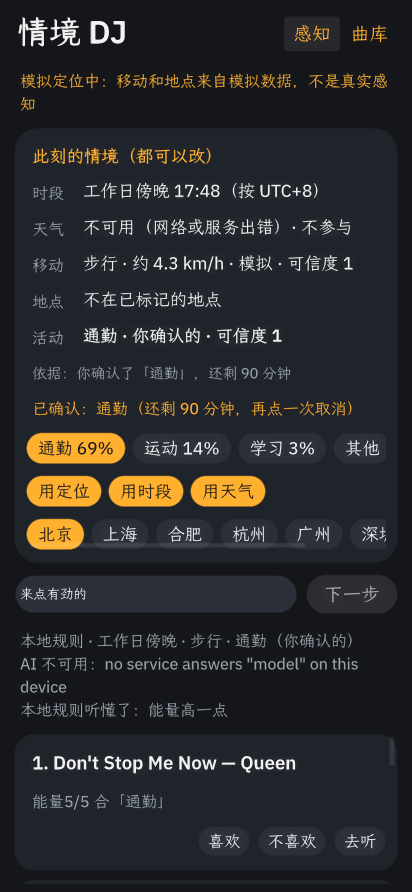
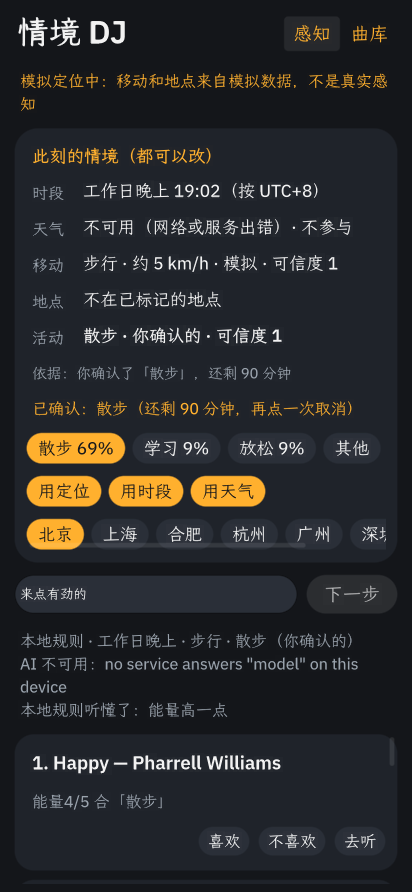
按 G1–G4 报告修复：启动分批加载（500 条记录超指令上限）、情境卡与歌单活动一致、弱推断不当事实、历史记录 AI 原始判断
Claude-Session: https://claude.ai/code/session_019x9uWJM5wMK4P8noCX7i6x

diff --git a/docs/PLAN.md b/docs/PLAN.md
@@ -464,3 +464,17 @@ AI 定期：总结"你的规律"、建议新模板
   - 自动采用的推断**不记为标签**，否则模型会自己强化自己；只有用户的点选、手动选择和原话才记。
   - 一键确认显示为"你确认的"，不显示"手动"。
 - **还没做（10-06）**：视觉和布局重做（和 Fano 一起定风格）、模板（C7）、AI 规律总结（C7）。
+
+## 12. G1–G4 报告处理（2026-10-05 晚）
+
+| 报告 | 结论 | 处理 |
+|---|---|---|
+| G1 | **真实 MiniMax 路径打通**：v0.2 的 A–E 全部通过，亲眼看到 AI 歌单和 understood | — |
+| G1 | 首次启动报 `script time budget exceeded`（当时内存提交率 96%） | 复现出根因：500 条确认记录时，启动加载超过指令上限。**已改为分批启动加载**，500 条压力测试通过 |
+| G1 | 情境卡和歌单的活动不一致 | **已修**：原话或 AI 判断出的情境在同一情境桶内沿用 30 分钟，情境卡同步刷新 |
+| G1 | 只凭时段的弱推断，被 AI 写成了确定事实 | **已修**：提示词里告诉 AI 可信度低于 0.5 的只是猜测；发给 AI 的规则推断带上可信度 |
+| G1 | AI 原始的 activity 字段没有留存，无法单独核对 | **已修**：历史记录新增 `ai_raw` |
+| G1 | C 盘空闲减少约 18 GiB，最可能是系统分页文件扩大（内存压力） | 不是应用写入。C 盘目前仍剩约 168 GiB；之后测试注意内存占用 |
+| G2 | Home 和 Bridge 已装到 P40；系统定位回调可用，独立卫星定位未验证；**手机读不到官方 App Hub 目录（Connection reset，访问 raw.githubusercontent.com 被重置）**；本地导入没有入口 | 手机端演示要先解决网络问题；决赛演示以桌面为主 |
+| G3 | MusicBrainz 可达；**Open-Meteo 本轮超时**（G1 时曾成功，说明不稳定） | 天气按可选信号处理（已有降级）；C8 要处理候选歧义：跳过 video 和 live，缺失字段保留为缺失，年份取最早的发行日期 |
+| G4 | issue 草稿完成 | 由 Fano 审阅后提交 |

diff --git a/AGENTS.md b/AGENTS.md
@@ -41,3 +41,5 @@ Add this app's own requirements, data sources and tests below.
 - `ok` 是保留字，不能用作对象的键（`{ok: true}` 会解析失败），本应用改用 `valid`。
 - `card-host` 中没有 GPS：用"感知"页的模拟定位测试，界面会一直显示模拟提示，历史里也记 `sim: true`。
 - 每个处理函数最多执行 20 万条指令（已实测会触发）。定位轮询的计算量随窗口内的点数增长，修改 `GPS_POLL_S` 或 `WIN_S` 之前，先算一下最坏情况的点数。
+- 启动加载必须分批（`run_chunks`）：500 条确认记录一次性读入，会超过 20 万条指令的上限（已实测）；曲库、反馈也会随使用增长。新增会增长的数据文件时，照同样的方式分批读。
+- 原话里说明的情境或 AI 判断出的情境，会在同一情境桶里沿用 30 分钟（`session_act`），保证情境卡和歌单显示同一个活动。
